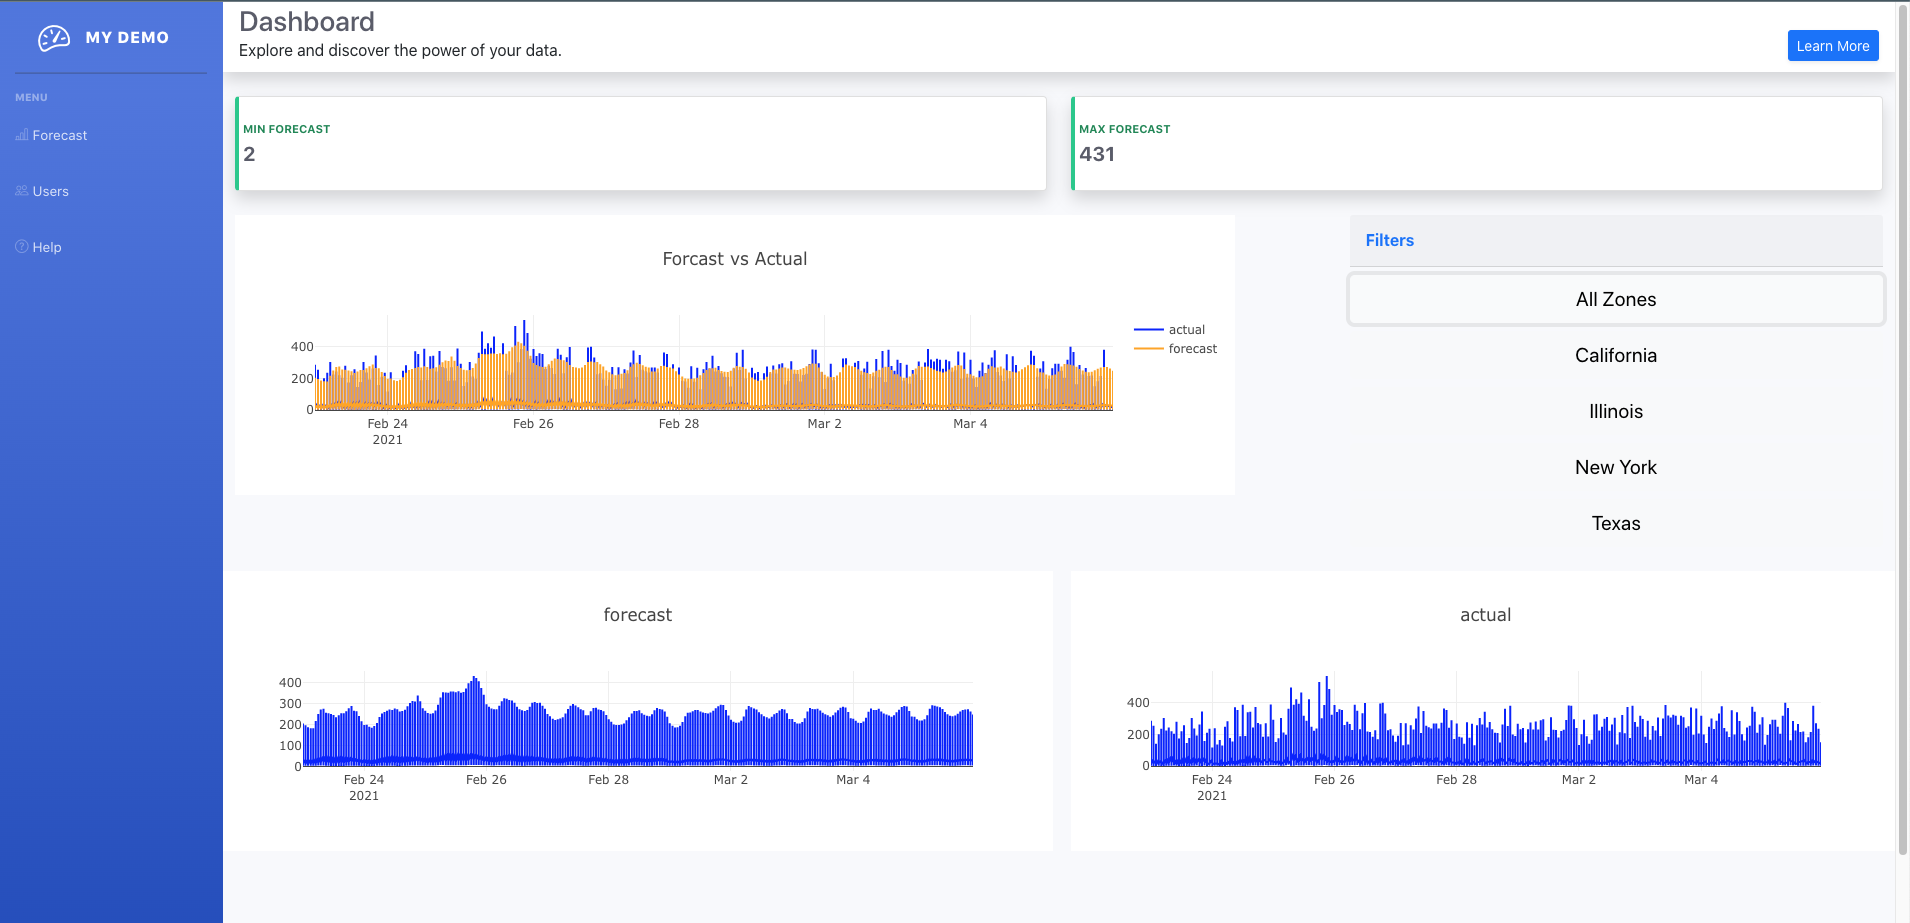
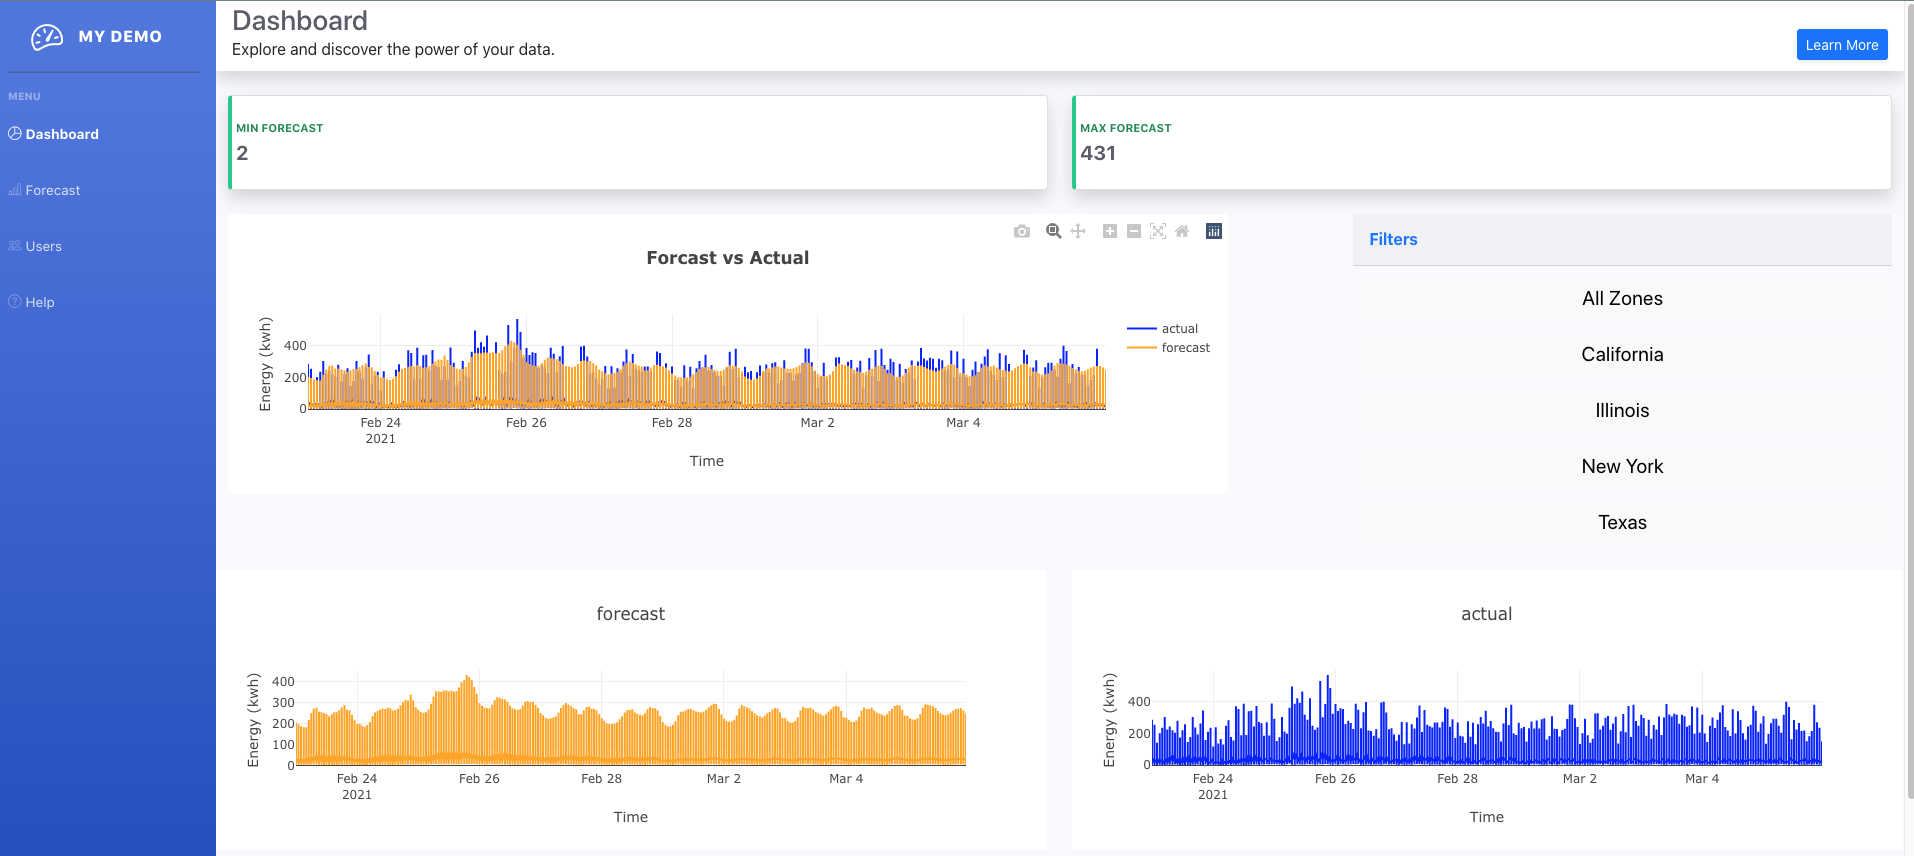
updated readme to reflect updated image look and feel

diff --git a/Client/src/components/Charts.js b/Client/src/components/Charts.js
@@ -1,5 +1,5 @@
 import React from "react";
-// import { ToggleButton } from "react-bootstrap";
+import { ToggleButtonGroup } from "react-bootstrap";
 import Plot from "react-plotly.js";
 import "../style.css";
 
@@ -10,8 +10,10 @@ export const Charts = ({type, data , color}) => {
 
 
     return (
+
       <Plot
       data={[
+   
         {
           x: data.map(({ time }) =>
             time.replace("Z", "").split("T").join(" ")
@@ -55,10 +57,9 @@ export const Charts = ({type, data , color}) => {
                     color: 'blue'
                   }
               },
+          
               
-              // Button: {
-              //   title: "line-graph",
-              // }
+             
               }}
       />
     );

diff --git a/Client/src/App.js b/Client/src/App.js
@@ -81,7 +81,9 @@ export const App = () => {
               <div className="row">
                 {/* Content Column */}
                 <div className="col-lg-8 mb-4">
+                 
                   <Analytics
+
                     data={
                       zone
                         ? json_data.filter((data) => data.zone === zone)

diff --git a/Client/src/components/Analytics.js b/Client/src/components/Analytics.js
@@ -1,11 +1,13 @@
 import React from "react";
 import Plot from "react-plotly.js";
-
+import { ToggleButtonGroup } from "react-bootstrap";
 
 export const Analytics = ({data}) => {
   
     return (
       //Using Plotly to graph and outline X: time and Y: "actual" and "forecast" 
+     
+    
 
 
       <Plot
